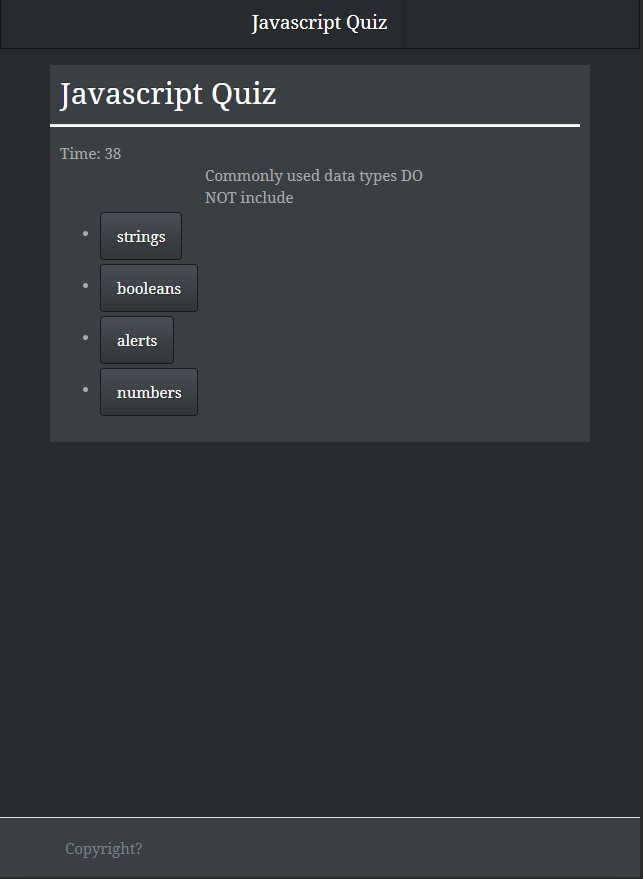
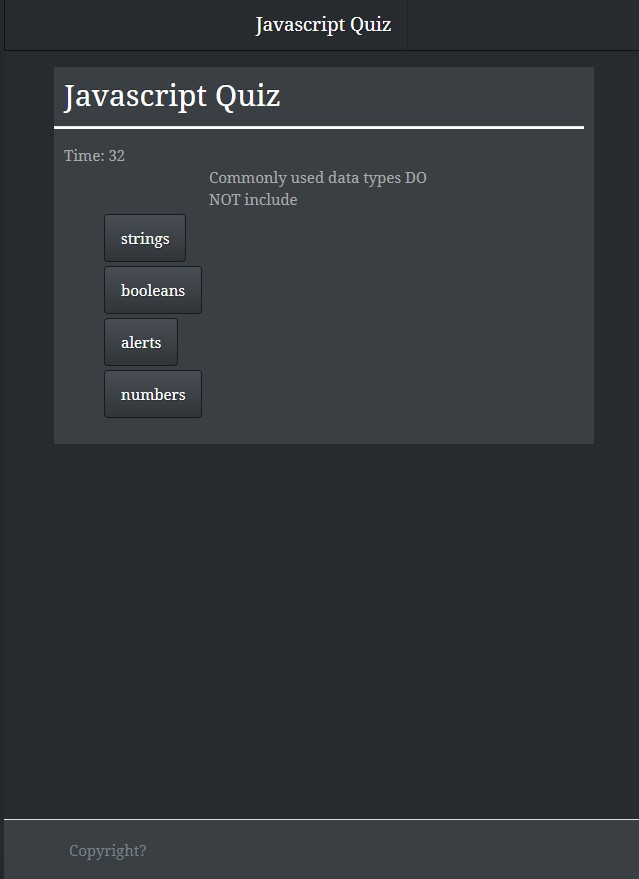
removed bullets from unordered list

diff --git a/index.html b/index.html
@@ -44,7 +44,7 @@
       </div>
       <div class="row">
         <div class="col">
-          <ul id="answers">
+          <ul style="list-style-type:none;" id="answers">
           </ul>
         </div>
       </div>

diff --git a/README.md b/README.md
@@ -23,4 +23,4 @@ This is a responsive website built to host a javascript quiz
 | ![640-start](./Assets/images/640-start.jpg) | ![768-start](./Assets/images/768-start.jpg) | ![940-start](./Assets/images/940-start.jpg) |
 | ![640-question](./Assets/images/640-question.jpg) | ![768-start](./Assets/images/768-question.jpg) | ![940-question](./Assets/images/940-question.jpg) |
 | ![640-victory](./Assets/images/640-victory.jpg) | ![768-victory](./Assets/images/768-victory.jpg) | ![940-victory](./Assets/images/940-victory.jpg) |
-| ![640-highscores](./Assets/images/640-highscores.jpg) | ![768-start](./Assets/images/768-highscores.jpg) | ![940-highscores](./Assets/images/940-highscores.jpg) |
+| ![640-highscores](./Assets/images/640-highscores.jpg) | ![768-highscores](./Assets/images/768-highscores.jpg) | ![940-highscores](./Assets/images/940-highscores.jpg) |
